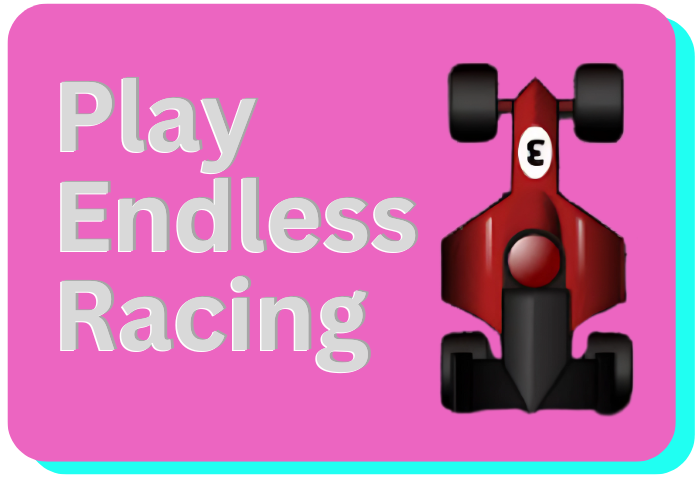
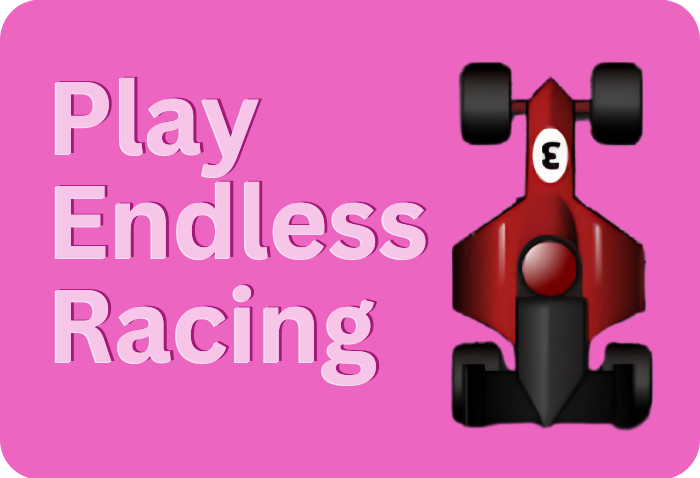
use html button instead of custom component

diff --git a/maskiminigames/src/components/Homepage.js b/maskiminigames/src/components/Homepage.js
@@ -1,6 +1,7 @@
 import React from 'react';
 import logo from '../logo.svg';
-import Button from './Button.js';
+import snakeButtonImage from '../assets/snake_button.png';
+import endlessRacingButtonImage from '../assets/endless_racing_button.png';
 import '../styles/Homepage.css';
 
 /**
@@ -11,21 +12,30 @@ import '../styles/Homepage.css';
  * @date December 2024
  */
 const Homepage = () => {
+
+  const redirect = (link) => {
+    setTimeout(() => {
+      window.location.href = link;
+    }, 100); // 100ms delay 
+  };
+
   return (
     <header className="homepage">
       <img src={logo} className="App-logo" alt="logo" />
       <div className="buttons">
-        <Button 
-          link="https://dev.azure.com/software-engineering-studio/studio-course/_workitems/edit/12014/" // TODO: Insert link to snake game page
-          altText="Play Snake"
+        <button
           className="button snake-button"
-        />
+          onClick={() => redirect("https://dev.azure.com/software-engineering-studio/studio-course/_workitems/edit/12014/")}
+        >
+          <img className="button-image" src={snakeButtonImage}></img>
+        </button>
 
-        <Button 
-          link="https://dev.azure.com/software-engineering-studio/studio-course/_workitems/edit/12020/" // TODO: Insert link to endless racing game page
-          altText="Play Endless Racing"
+        <button
           className="button endless-racing-button"
-        />
+          onClick={() => redirect("https://dev.azure.com/software-engineering-studio/studio-course/_workitems/edit/12020/")}
+        >
+          <img className="button-image" src={endlessRacingButtonImage}></img>
+        </button>
       </div>
     </header>
   );

diff --git a/maskiminigames/src/styles/Homepage.css b/maskiminigames/src/styles/Homepage.css
@@ -14,19 +14,43 @@
   display: inline-block;
   width: 300px;
   height: 205px;
-  background-size: cover;
-  background-repeat: no-repeat;
-  background-position: center;
+  background: none;
+  border: none;
   cursor: pointer;
   position: relative;
+  z-index: 1;
 }
 
-.snake-button {
-  background-image: url('../assets/snake_button.png');
+.button::before {
+  content: "";
+  position: absolute;
+  top: 10px;
+  left: 10px;
+  width: 97%;
+  height: 95%;
+  border: none;
+  border-radius: 15px;;
+  background-color: #20FFF2;
+  z-index: -1;
 }
 
-.endless-racing-button {
-  background-image: url('../assets/endless_racing_button.png');
+.button-image {
+  width: 100%;
+  height: auto;
+  object-fit: cover;
+  transition: transform 0.05s;
+}
+
+.button:active .button-image {
+  transform: translate(5px, 5px);
+}
+
+/* Active button state - moves button down */
+.button:active {
+  .button-image {
+    top: 5px;
+    left: 5px;
+  }
 }
 
 .buttons {
